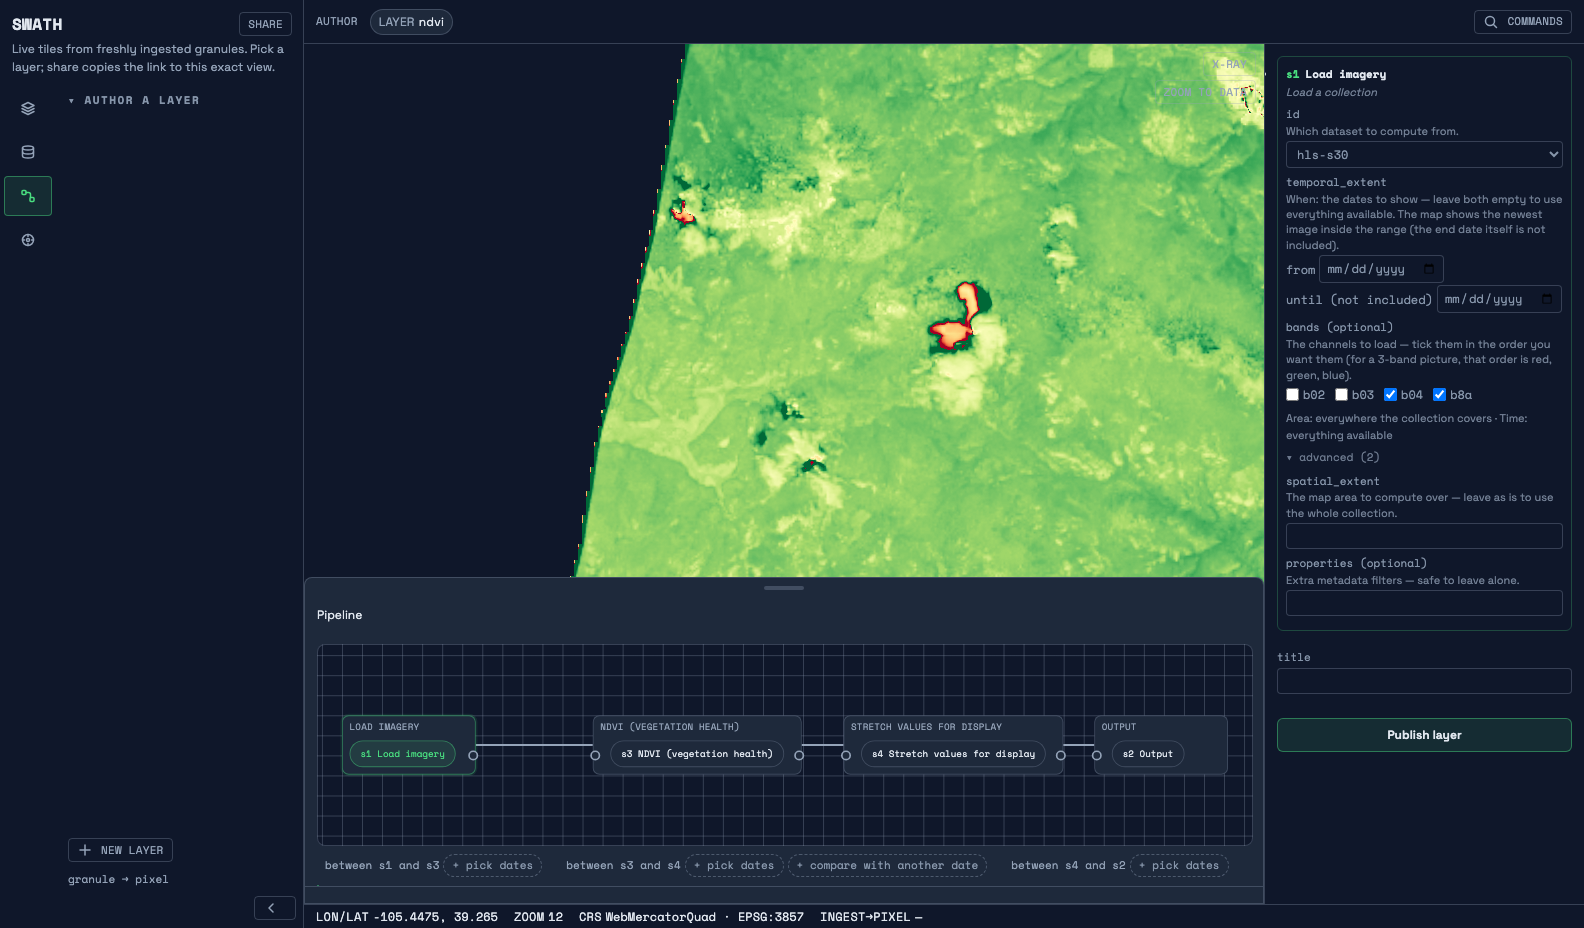
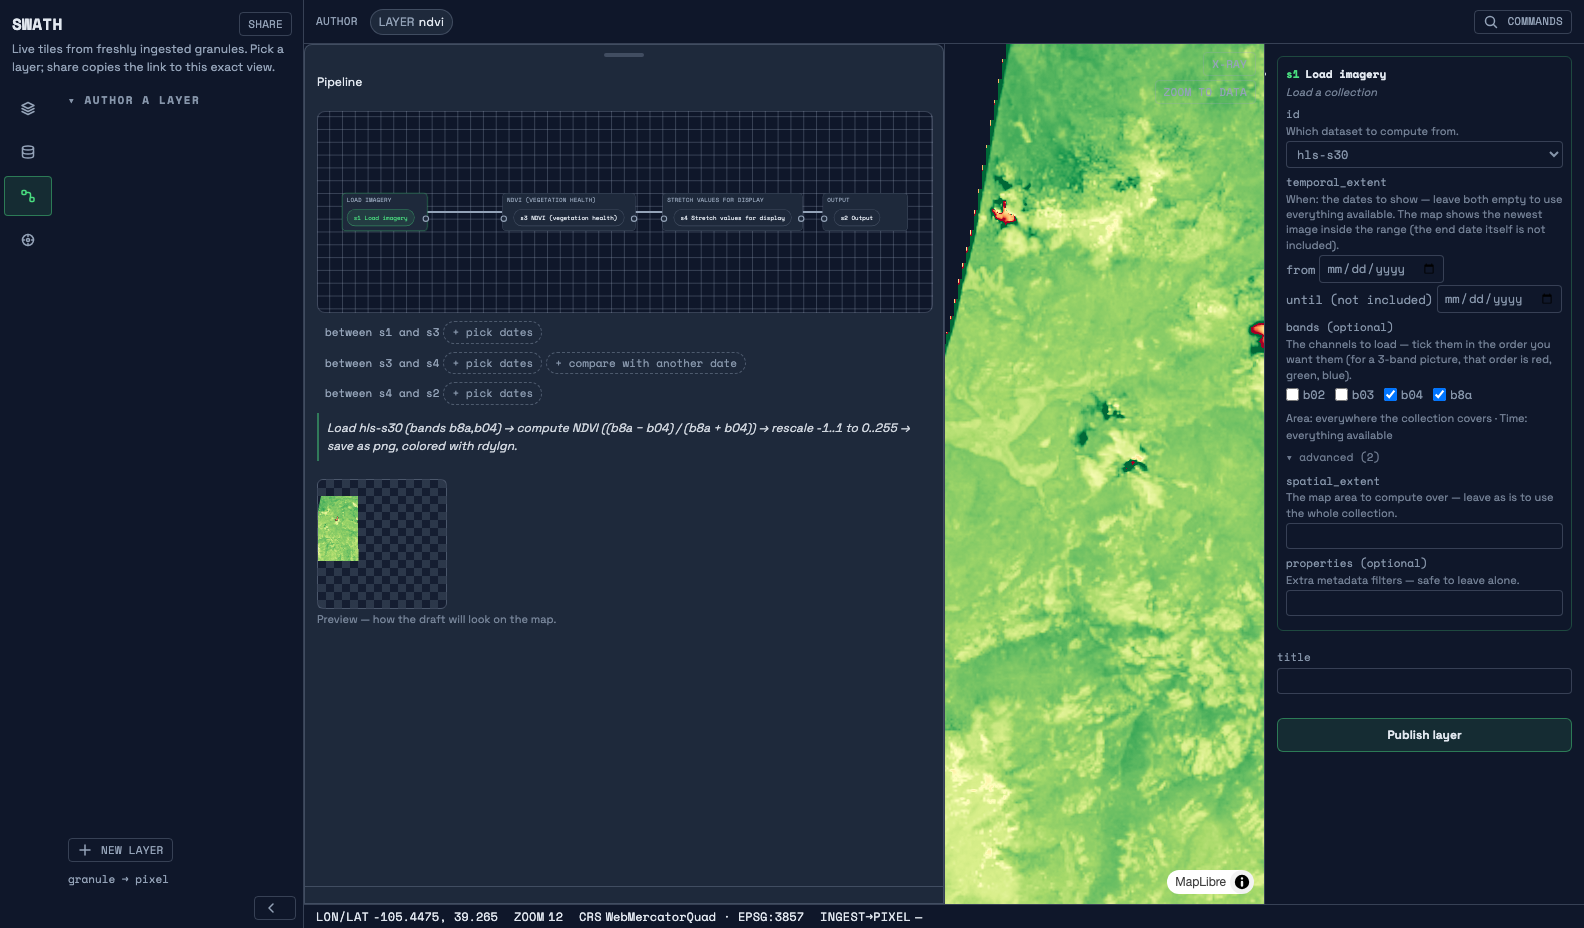
fix(web): the compose preview column is placed where the map is styled (#464)
## What

#400's compose column **did not work on the real page.** It took its
320px width but stayed at the
region's left edge, overlapping the canvas, painting nothing. The
screenshots show it: an empty dark
strip where the preview should be.

## Why

The shell positioned the map with `:host([compose])
::slotted([slot="map"])`. The demo page styles the
same element with a document rule:

```css
swath-map[slot="map"] { position: absolute; inset: 0; height: 100%; }
```

**Document styles beat a shadow tree's `::slotted()` for slotted
content**, regardless of specificity.
`inset: 0` won and pinned the map left; `inline-size` came through only
because the document rule does
not set a width. Hence a correctly-sized column in the wrong place.

The comment directly above that rule already documents this exact
cascade, for this exact reason. I
did not read it.

## Why no test caught it, and what that changes

`swath-shell.test.ts` asserted the map's geometry against a plain `<div
slot="map">`. A `<div>` has no
document rule competing with `::slotted()`, so the shadow rule applied
and **the test passed while the
page was broken**. The fixture was not faithful to the thing it stood in
for.

Three changes follow from that:

1. **The shell reserves, it does not place.** It insets the `main` slot
and no longer touches the map.
It cannot position light-DOM content the consumer also styles, and
pretending otherwise is what
   shipped this.
[…]

diff --git a/web/src/swath-shell.test.ts b/web/src/swath-shell.test.ts
@@ -4,6 +4,8 @@
 import { afterEach, beforeAll, expect, test } from "vitest";
 import { page } from "vitest/browser";
 import { defineSwathShell, SwathShell } from "./swath-shell.js";
+import { SwathElement } from "./ui/element.js";
+import { css } from "./ui/styles.js";
 
 beforeAll(async () => {
   // The shell reflows by VIEWPORT width (#293): pin the desktop tier.
@@ -15,6 +17,23 @@ afterEach(() => {
   document.body.replaceChildren();
 });
 
+/** Stands in for a `slot="main"` child, which is really a `swath-drawer`.
+ *
+ * The shape that matters is where its `position: absolute; inset: 0` comes
+ * from: its OWN shadow root's `:host`, which the outer tree overrides — that
+ * is how the shell reserves the preview column. A plain `<div>` styled
+ * inline, or by a document rule, cannot model it: both beat `::slotted()`,
+ * which is exactly the cascade that made #463 ship broken while a test
+ * using a `<div>` passed. */
+class MainProbe extends SwathElement {
+  static override tagName = "main-probe";
+  static override styles = [css`:host { position: absolute; inset: 0; display: block; }`];
+  protected render(): void {
+    // Nothing to draw: the fixture exists for its :host geometry alone.
+  }
+}
+MainProbe.define();
+
 async function mount(attrs = ""): Promise<SwathShell> {
   const host = document.createElement("div");
   host.style.cssText = "width:1528px;height:928px";
@@ -22,6 +41,7 @@ async function mount(attrs = ""): Promise<SwathShell> {
     <div slot="rail" id="rail" style="width:248px;height:100%">rail</div>
     <span slot="topbar" id="top">Layers</span>
     <div slot="map" id="map">map</div>
+    <main-probe slot="main" id="main"></main-probe>
     <div slot="hud" id="hud">hud</div>
     <div slot="inspector" id="insp">inspector</div>
     <div slot="statusbar" id="status">status</div>
@@ -98,26 +118,26 @@ test("slots exist synchronously on upgrade: a slotted child has its size before 
   expect(Math.round(map.getBoundingClientRect().height)).toBe(860);
 });
 
-test("composing gives the canvas the region and the map a preview column (#400)", async () => {
+test("composing reserves the preview column out of the main slot (#400)", async () => {
   const shell = await mount();
-  const map = document.querySelector("#map") as HTMLElement;
-  const full = Math.round(map.getBoundingClientRect().width);
+  const main = document.querySelector("#main") as HTMLElement | null;
+  expect(main, "the fixture must slot a main child").not.toBeNull();
+  const full = Math.round((main as HTMLElement).getBoundingClientRect().width);
 
   shell.compose = true;
   await shell.updateComplete;
-  const preview = Math.round(map.getBoundingClientRect().width);
-
-  // ADR 0028's amended rule: the map is always present AND never smaller
-  // than a live preview. It shrinks to the preview column — it does not
-  // disappear, and nothing is drawn over it.
-  expect(preview).toBe(320);
-  expect(preview).toBeLessThan(full);
-  expect(getComputedStyle(map).display).not.toBe("none");
-  // It is on the far side: the canvas takes everything left of it.
-  const box = map.getBoundingClientRect();
-  expect(Math.round(box.right)).toBe(Math.round(window.innerWidth));
+  const reserved = Math.round((main as HTMLElement).getBoundingClientRect().width);
+  expect(full - reserved).toBe(320);
 
   shell.compose = false;
   await shell.updateComplete;
-  expect(Math.round(map.getBoundingClientRect().width)).toBe(full);
+  expect(Math.round((main as HTMLElement).getBoundingClientRect().width)).toBe(full);
 });
+
+// NOTE: the shell reserves the column; it does NOT position the map. It
+// cannot — the map is light DOM and document styles beat `::slotted()`, so
+// the consumer's own `swath-map[slot="map"]` rule wins (#463). An earlier
+// version of this test asserted the map's geometry against a plain slotted
+// `<div>`, which has no document rule, so it passed while the real page
+// rendered the column at the wrong edge and empty. The map's placement is
+// asserted where it is real: `modes.e2e.ts`, against the demo page.

diff --git a/web/e2e/modes.e2e.ts b/web/e2e/modes.e2e.ts
@@ -225,3 +225,45 @@ test("the icon strip reaches every mode, and new layer stands in the footer (#39
   await expect(page).toHaveURL(/[?&]view=author(&|$)/);
   await expect(page.locator("swath-authoring-panel")).toBeVisible();
 });
+
+test("composing puts the map in a preview column, painted, beside the canvas (#400/#463)", async ({
+  page,
+}) => {
+  await page.goto(demoUrl({ layer: "ndvi", center: [-105.4475, 39.265], zoom: 12 }));
+  const map = page.locator("swath-map");
+  await expect(map.locator("canvas.maplibregl-canvas")).toBeVisible();
+  const wide = (await map.boundingBox())?.width ?? 0;
+
+  await modeButton(page, "author").click();
+  await expect(page.locator("swath-shell")).toHaveAttribute("compose", "");
+
+  // ADR 0028: always present, and never smaller than a live preview. The
+  // shell reserves the column; the page's own `swath-map[slot="map"]` rule
+  // places the map in it — document styles beat the shell's `::slotted()`,
+  // which is why a shell-side attempt left it at the wrong edge (#463).
+  const column = await map.boundingBox();
+  expect(Math.round(column?.width ?? 0)).toBe(320);
+  expect(column?.width ?? 0).toBeLessThan(wide);
+
+  // Flush against the far edge, with the canvas taking everything left of
+  // it — not overlapping the canvas, and not hiding under the inspector.
+  const canvas = await page.locator("#swath-author-dock").boundingBox();
+  expect(Math.round(column?.x ?? 0)).toBeGreaterThanOrEqual(
+    Math.round((canvas?.x ?? 0) + (canvas?.width ?? 0)),
+  );
+
+  // And it is a live preview, not a reserved blank: the GL buffer follows
+  // the column rather than keeping its full-width size.
+  const buffer = await page.evaluate(() => {
+    const el = document.querySelector("swath-map canvas.maplibregl-canvas") as HTMLCanvasElement;
+    return Math.round(el.width / (window.devicePixelRatio || 1));
+  });
+  expect(buffer).toBeLessThanOrEqual(320);
+
+  // Leaving compose gives the region back.
+  await modeButton(page, "layers").click();
+  await expect(page.locator("swath-shell")).not.toHaveAttribute("compose", "");
+  await expect
+    .poll(async () => Math.round((await map.boundingBox())?.width ?? 0))
+    .toBe(Math.round(wide));
+});

diff --git a/web/src/swath-shell.ts b/web/src/swath-shell.ts
@@ -55,25 +55,17 @@ export class SwathShell extends SwathElement {
       /* Composing (#400): the canvas takes the screen and the map becomes a
        * live preview column beside it — never under it. ADR 0028 amends ADR
        * 0021 §1 to "the map is always present AND never smaller than a live
-       * preview", which is what this column is. Below the medium tier there
-       * is no room for two columns, so the map keeps the region and the
-       * canvas returns to a sheet over it. */
-      :host([compose]) ::slotted([slot="map"]) {
-        inset-inline-start: auto;
-        inline-size: var(--swath-size-preview);
-        /* Slotted content is light DOM, so the shadow sheet's box-sizing
-         * reset does not reach it: without this the hairline would make the
-         * preview 321px and quietly steal a pixel from the canvas. */
-        box-sizing: border-box;
-        border-inline-start: var(--swath-border-hairline);
-      }
+       * preview", which is what this column is.
+       *
+       * The shell reserves the column by insetting everything else; it does
+       * NOT position the map itself. It cannot: the map is light DOM (so
+       * MapLibre keeps document scope), and document styles beat a shadow
+       * tree's ::slotted() in the cascade — the consumer's own
+       * swath-map[slot=map] rule wins, which is where the map's position
+       * already lives. #463 learned that the hard way. Below the medium tier
+       * there is no room for two columns and the reservation is dropped. */
       :host([compose]) ::slotted([slot="main"]) { inset-inline-end: var(--swath-size-preview); }
       @media (max-width: 1023px) {
-        :host([compose]) ::slotted([slot="map"]) {
-          inset-inline-start: 0;
-          inline-size: auto;
-          border-inline-start: 0;
-        }
         :host([compose]) ::slotted([slot="main"]) { inset-inline-end: 0; }
       }
       [part="inspector"] {

diff --git a/web/demo/index.html b/web/demo/index.html
@@ -42,6 +42,26 @@ or bring the stack up yourself and `pnpm exec vite dev`.
         inset: 0;
         height: 100%;
       }
+      /* Composing (#400, ADR 0028): the map becomes the live preview column
+       * beside the canvas. Sized HERE for the same reason as above — the
+       * shell's ::slotted() rule loses to this document rule's `inset: 0`,
+       * so a shell-side attempt at it applied the width and silently left
+       * the column at the wrong edge, empty (#463). The shell reserves the
+       * space; the consumer places the map in it. */
+      swath-shell[compose] swath-map[slot="map"] {
+        left: auto;
+        right: 0;
+        width: var(--swath-size-preview);
+        box-sizing: border-box;
+        border-inline-start: var(--swath-border-hairline);
+      }
+      @media (max-width: 1023px) {
+        swath-shell[compose] swath-map[slot="map"] {
+          left: 0;
+          width: auto;
+          border-inline-start: 0;
+        }
+      }
       .swath-rail-title {
         display: flex;
         align-items: center;

diff --git a/docs/media/screenshots/index.md b/docs/media/screenshots/index.md
@@ -7,8 +7,8 @@ show a painted map (`pdiff --content`: the map region is never near-uniform), an
 capture run must reproduce each shot within its perceptual-diff policy
 (tests/screenshots/verify_stable.py + swath-testsupport pdiff) before the recipe passes.
 
-- capture sha: `406ab2a980394561bd6e58e883de867932a244fd`
-- captured: 2026-09-03T18:13:34.350Z
+- capture sha: `e7e7d6b1d9dfa198cfc04adced43f44a101ab574`
+- captured: 2026-09-04T05:25:09.399Z
 - machine-readable manifest (per-shot sha256 + pdiff policy): [`shots.json`](shots.json)
 
 | shot | evidences |
